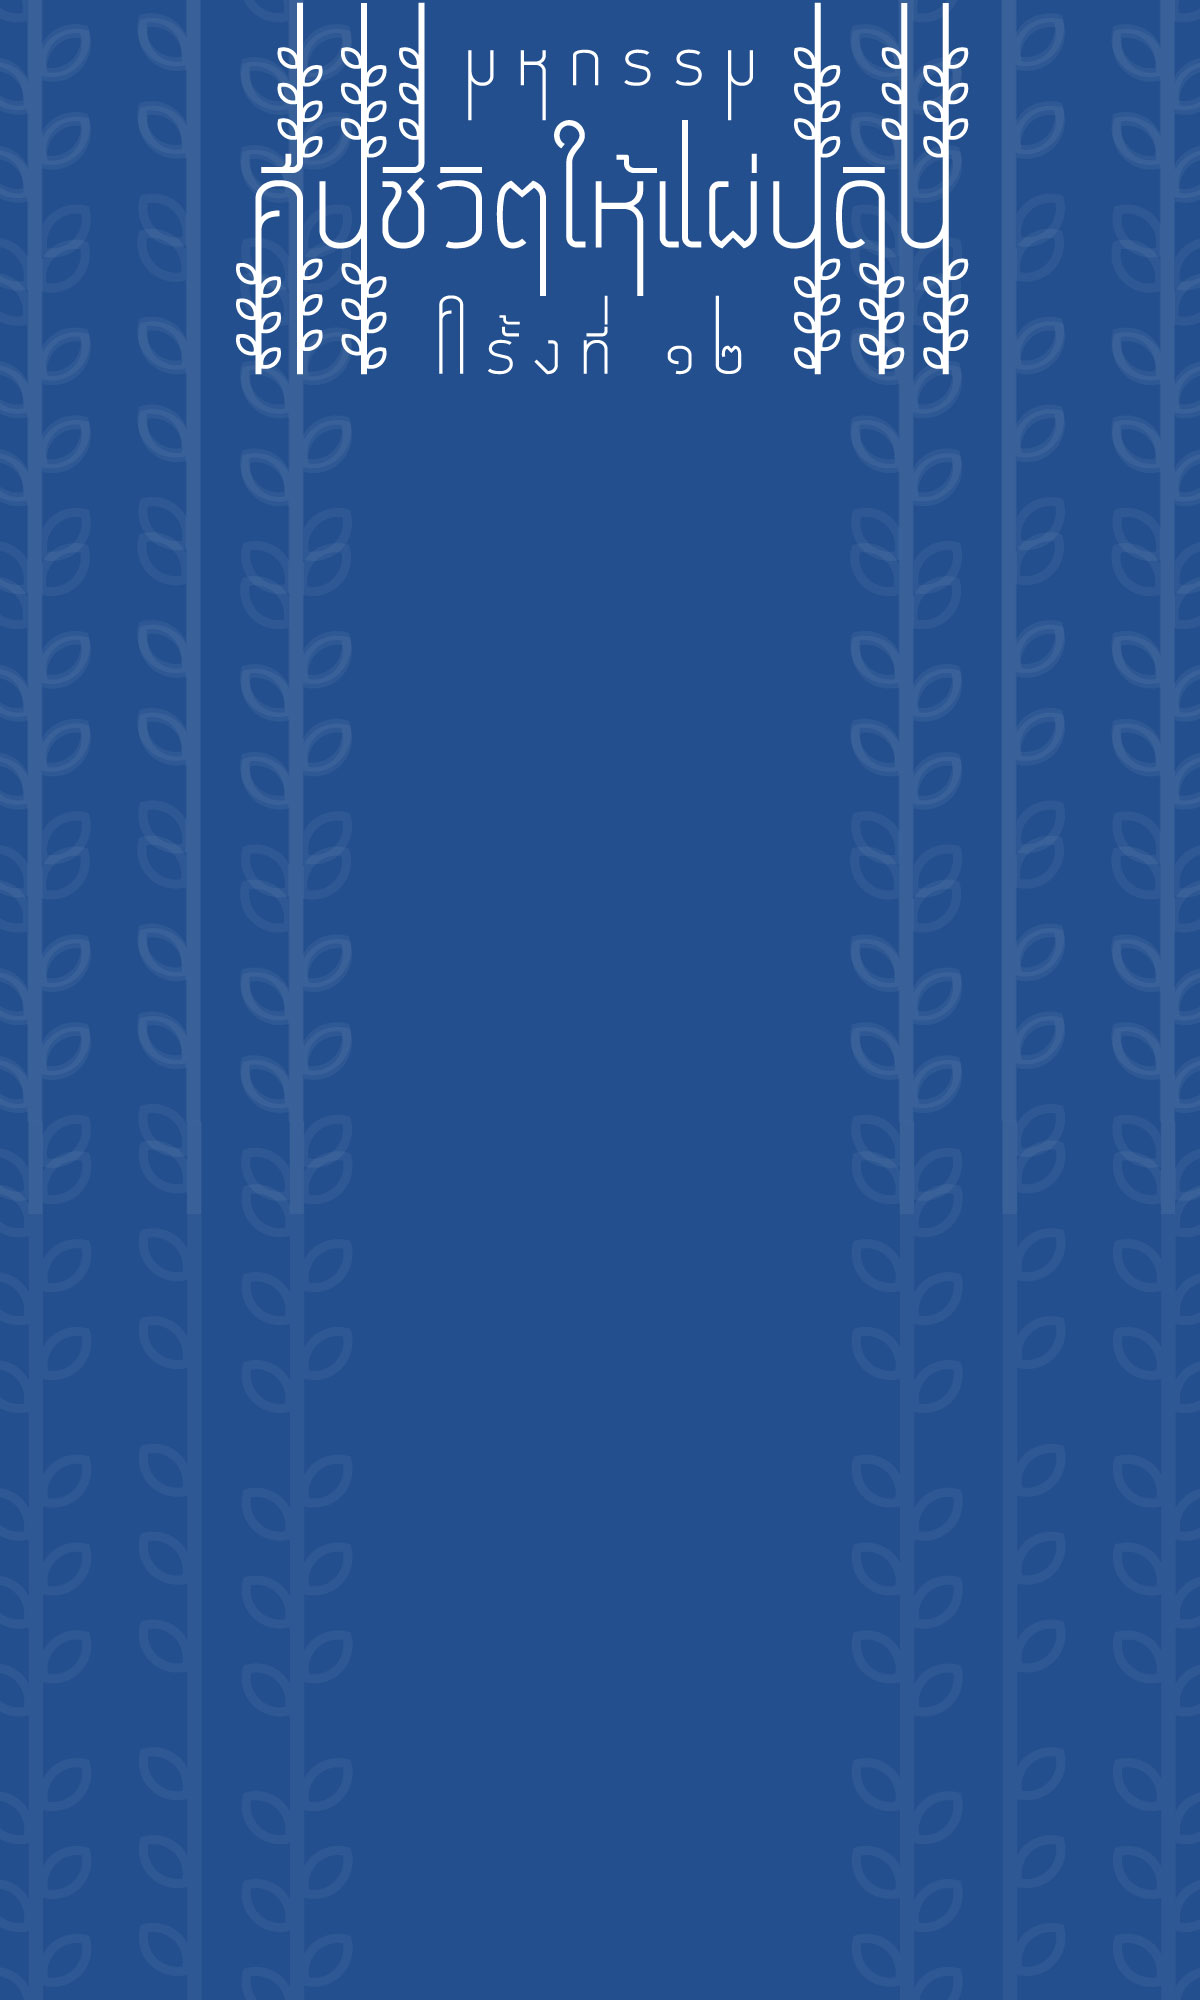
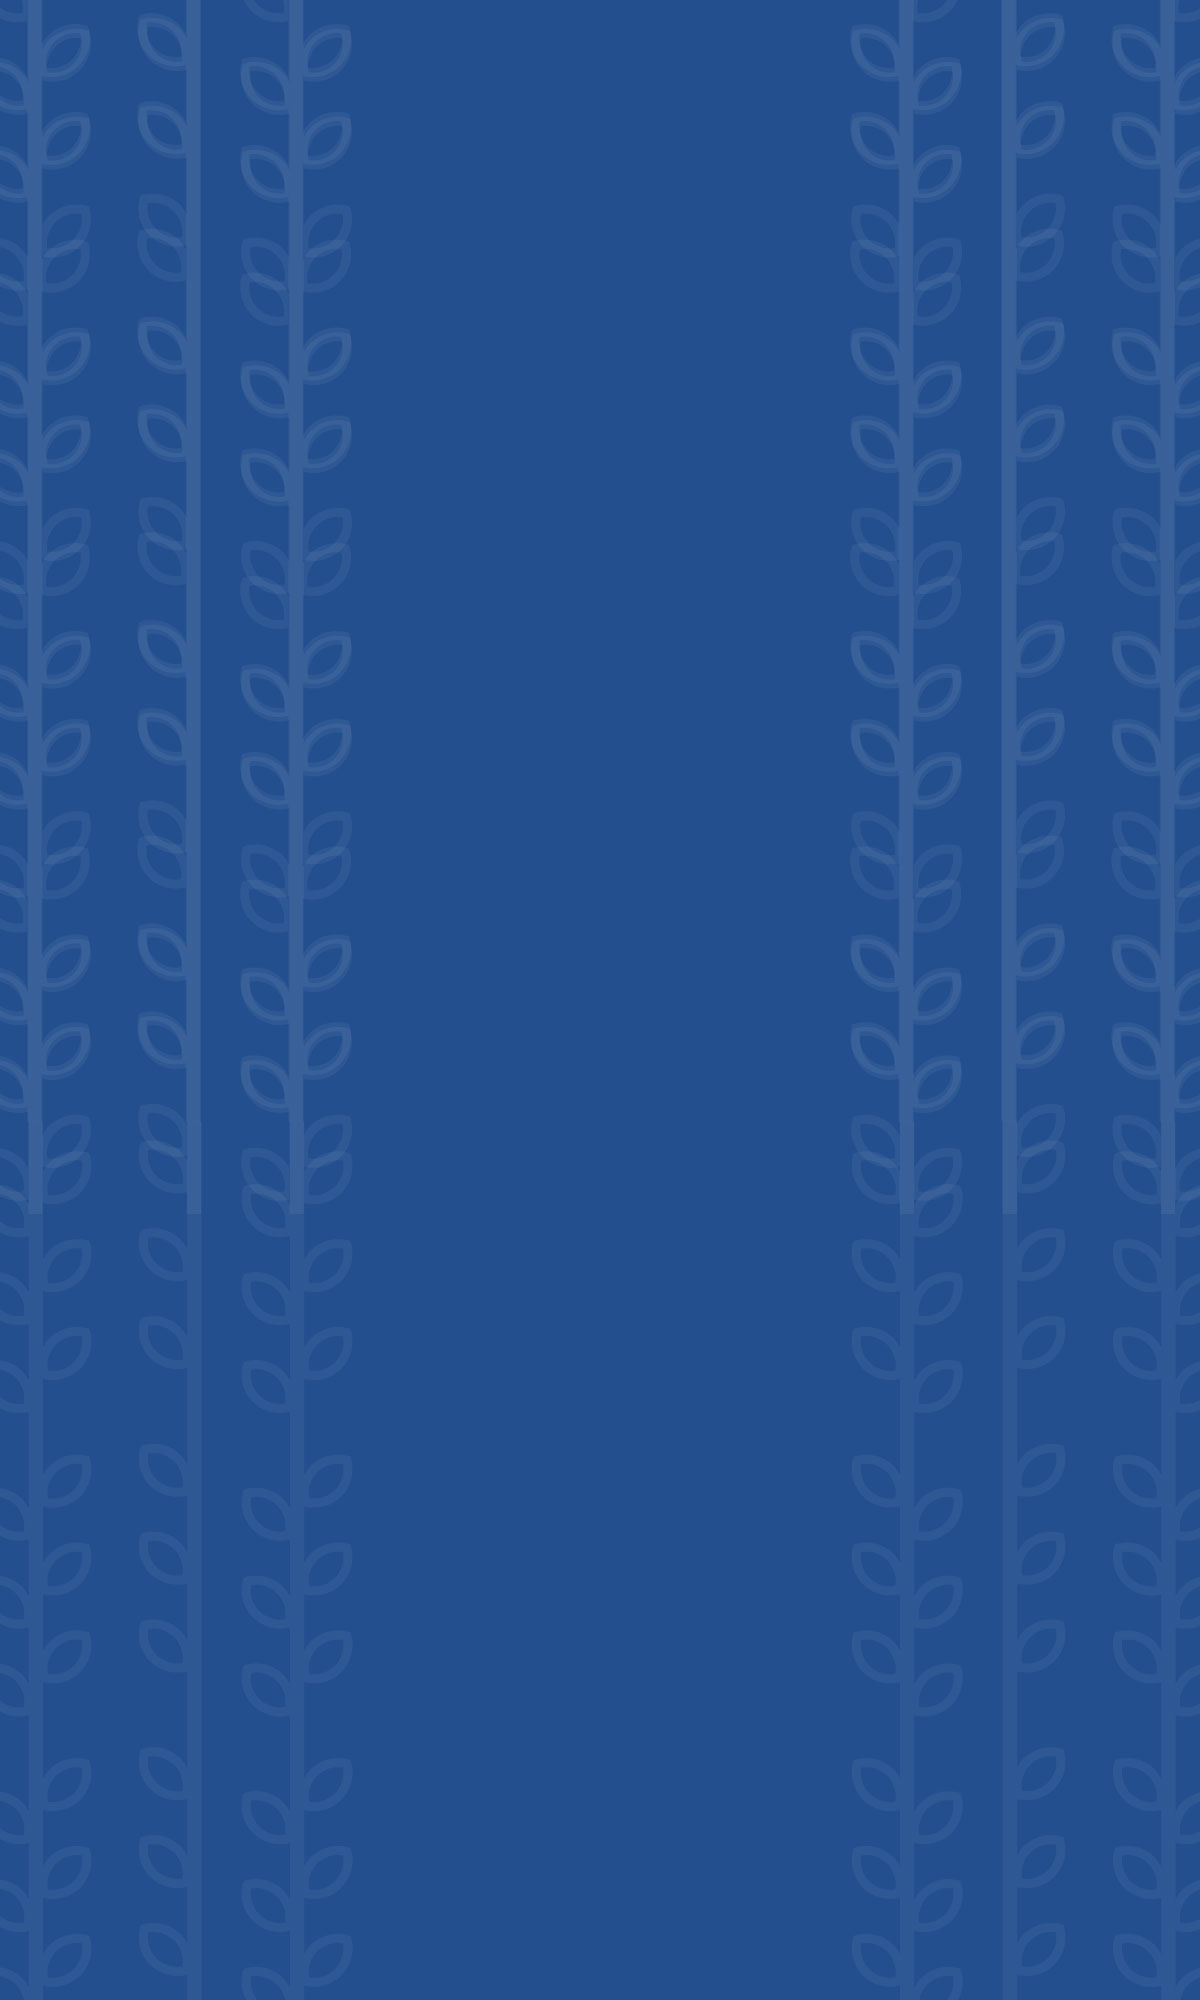
update

diff --git a/modules/qrevents/client/views/list-qrevents.client.view.html b/modules/qrevents/client/views/list-qrevents.client.view.html
@@ -3,29 +3,40 @@
     <h1>Qrevents</h1> <span class="huuuuu">{{rank()}} </span>
   </div> -->
   <div class="row">
+    <div class="col-lg-1 col-md-1 col-sm-1 col-xs-1 text-center">
+    </div>
+    <div class="col-lg-10 col-md-10 col-sm-10 col-xs-10 text-center">
+      <img class="dataImage" src="{{dataImage}}" alt="dataImage">
+    </div>
+    <div class="col-lg-1 col-md-1 col-sm-1 col-xs-1 text-center">
+    </div>
+  </div>
+  <div>
+    <div class="row">
       <div class="col-lg-12 col-md-12 col-sm-12 col-xs-12 text-center">
         <div class="index-count">
           <p>ลำดับที่</p>
         </div>
       </div>
     </div>
-  <div class="row">
-    <div class="col-lg-4 col-md-12 col-sm-12 col-xs-12 text-center">
-      <!-- <div class="count">{{rank()}} </div> -->
-    </div>
-    <div class="col-lg-4 col-md-12 col-sm-12 col-xs-12 text-center">
-      <div class="count-radius">
-        <p class="count-text">{{rank()}}</p>
+    <div class="row">
+      <div class="col-lg-4 col-md-12 col-sm-12 col-xs-12 text-center">
+        <!-- <div class="count">{{rank()}} </div> -->
+      </div>
+      <div class="col-lg-4 col-md-12 col-sm-12 col-xs-12 text-center">
+        <div class="count-radius">
+          <p class="count-text">{{rank()}}</p>
+        </div>
+      </div>
+      <div class="col-lg-4 col-md-12 col-sm-12 col-xs-12 text-center">
+        <!-- <div class="count">{{rank()}} </div> -->
       </div>
     </div>
-    <div class="col-lg-4 col-md-12 col-sm-12 col-xs-12 text-center">
-      <!-- <div class="count">{{rank()}} </div> -->
-    </div>
-  </div>
-  <div class="row">
-    <div class="col-lg-12 col-md-12 col-sm-12 col-xs-12 text-center">
-      <div>
-        <a href="https://line.me/R/ti/p/%40thamturakit" id="focus" class="button-count btn btn-block btn-outline btn-default btn-lg">รับข้าวกล้องมหัศจรรย์</a>
+    <div class="row">
+      <div class="col-lg-12 col-md-12 col-sm-12 col-xs-12 text-center">
+        <div>
+          <a href="https://line.me/R/ti/p/%40thamturakit" id="focus" class="button-count btn btn-block btn-outline btn-default btn-lg">รับข้าวกล้องมหัศจรรย์</a>
+        </div>
       </div>
     </div>
   </div>

diff --git a/modules/core/client/css/style.css b/modules/core/client/css/style.css
@@ -4790,8 +4790,9 @@ table.table-mail tr td {
     background: url('../img/background/BG_web_thamtu.jpg');
     /* background-position: center center; */
     background-repeat: no-repeat;
-    /* background-attachment: fixed; */
-    background-size: 100%;
+    background-attachment: fixed;
+    /* background-size: 100%; */
+    background-size: cover;
 }
 
 .white-bg {
@@ -10225,7 +10226,11 @@ body.md-skin {
         -o-transition: background-color 500ms linear;
         -ms-transition: background-color 500ms linear;
         transition: background-color 500ms linear;
-        background-color: #234F8E;
+        background-color: #f3f3f4;
+        background: url('../img/background/BG_web_thamtu.jpg');
+        background-repeat: no-repeat;
+        background-attachment: fixed;
+        background-size: cover;
     }
 }
 
@@ -10293,8 +10298,38 @@ body.md-skin {
     margin-right: -50%;
     transform: translate(-50%, -50%)
 }
-
-@media (min-width: 200px) {
+.count-radius {
+    border: solid 2px white;
+    border-radius: 50%;
+    min-width: 200px;
+    min-height: 200px;
+    margin: 0;
+    position: absolute;
+    top: 50%;
+    left: 50%;
+    margin-right: -50%;
+    transform: translate(-50%, 30%)
+}
+.button-count{
+    position: absolute;
+      top: 50%;
+      left: 50%;
+      width:90%;
+      color:white;
+      margin-right: -50%;
+      transform: translate(-50%, 600%)
+  }
+  .index-count{
+    position: absolute;
+      top: 50%;
+      left: 50%;
+      width:90%;
+      color:white;
+      font-size: 20px;
+      margin-right: -50%;
+      transform: translate(-50%, 50%)
+  }
+/* @media (min-width: 200px) {
   .count-radius {
       border: solid 2px white;
       border-radius: 50%;
@@ -10496,7 +10531,7 @@ body.md-skin {
         margin-right: -50%;
         transform: translate(-50%, 1150%)
     }
-}
+} */
 button#focus:focus
 {
     background:transparent;
@@ -10507,3 +10542,6 @@ button#focus:focus
     background: transparent;
     color: white;
 } */
+.dataImage{
+    width: 100%;
+}

diff --git a/modules/qrevents/client/controllers/list-qrevents.client.controller.js b/modules/qrevents/client/controllers/list-qrevents.client.controller.js
@@ -9,7 +9,7 @@
 
   function QreventsListController($http, $scope) {
     var vm = this;
-    $scope.rrr = 'modules/qrevents/client/img/background/BG_web_thamtu.jpg';
+    $scope.dataImage = 'modules/core/client/img/background/logo.png';
     // vm.qrevents = QreventsService.query();
     $scope.initData = function () {
 
